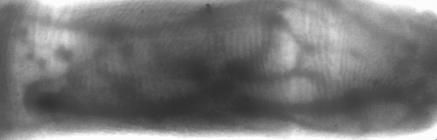
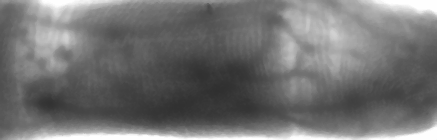
more dehazing tests

Changed region(s): [[0.0595, 0.9429, 0.6545, 1.0], [0.714, 0.9429, 0.8924, 1.0]]

diff --git a/matlab tests/recognize.m b/matlab tests/recognize.m
@@ -1,4 +1,4 @@
-[img, maxcurve, repeatedline] = miura_usage('cropped_hdr.png',3000, 1, 21);
+[img, maxcurve, repeatedline] = miura_usage('dehazed_4.png',3000, 1, 21);
 figure(1)
 subplot(3,2,1)
   imshow(img,[])
@@ -10,13 +10,13 @@ subplot(3,2,5)
   imshow(repeatedline)
   title('Repeated line tracking method')
   
-[img2, maxcurve2, repeatedline2] = miura_usage('cropped_3.png',3000, 1, 21);
-subplot(3,2,2)
-  imshow(img2,[])
-  title('Original captured image')
-subplot(3,2,4)
-  imshow(maxcurve2)
-  title('Maximum curvature method')  
-subplot(3,2,6)
-  imshow(repeatedline2)
-  title('Repeated line tracking method')
+% [img2, maxcurve2, repeatedline2] = miura_usage('cropped_3.png',3000, 1, 21);
+% subplot(3,2,2)
+%   imshow(img2,[])
+%   title('Original captured image')
+% subplot(3,2,4)
+%   imshow(maxcurve2)
+%   title('Maximum curvature method')  
+% subplot(3,2,6)
+%   imshow(repeatedline2)
+%   title('Repeated line tracking method')

diff --git a/matlab tests/miura_usage.m b/matlab tests/miura_usage.m
@@ -3,7 +3,7 @@
 function [img, overlay_max_curvature, overlay_repeated_line] = miura_usage(img, iterations, r, W)
 
 img = im2double(imread(img)); % Read the image
-img = imresize(img,0.25);               % Downscale image
+%img = imresize(img,0.25);               % Downscale image
 
 % Get the valid region, this is a binary mask which indicates the region of 
 % the finger. For quick testing it is possible to use something like:

diff --git a/matlab tests/visibresto2/run_examples.m b/matlab tests/visibresto2/run_examples.m
@@ -18,10 +18,10 @@ img = imresize(img,0.25);
 im = im2double(img);
 sv=2*floor(max(size(im))/50)+1;
 % ICCV'2009 paper result (NBPC)
-res=nbpc(im,40,0.8,0.5,1,1.3);
+res=nbpc(im,sv,0.8,0.5,5,1.3);
 figure;imshow([im, res],[0,1]);
 % IV'2010 paper result (NBPC+PA)
-res2=nbpcpa(im,40,0.8,0.5,1,1.3,205,300);
+res2=nbpcpa(im,sv,0.8,0.5,5,1.3,205,300);
 figure;imshow([im, res2],[0,1]);
 imwrite(res2,'dehazed.png')
 
